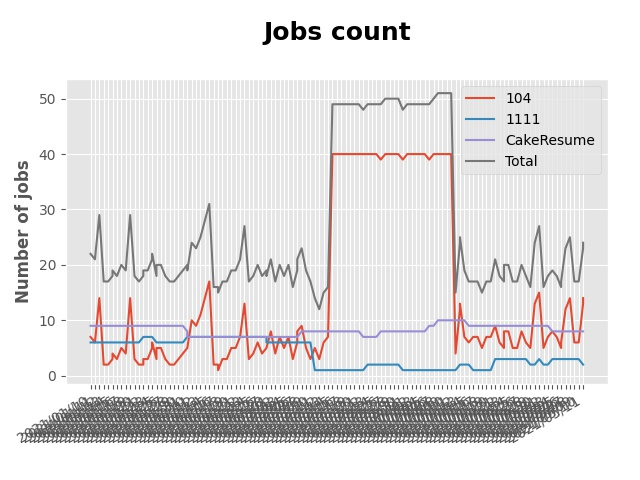
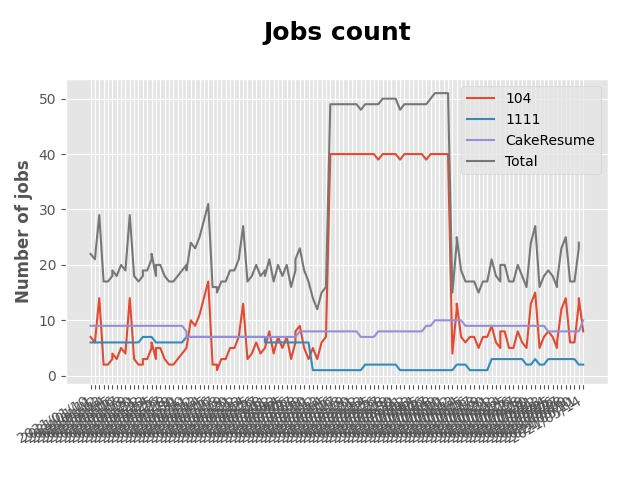
fix(cakeresume): suspend cakeresume crawler

Changed region(s): [[0.0938, 0.1562, 0.9375, 0.9375]]

diff --git a/crawlers/__init__.py b/crawlers/__init__.py
@@ -2,4 +2,4 @@ from .a104 import A104
 from .a1111 import A1111
 from .cakeresume import CakeResume
 
-JOB_BANK_LIST = [A104, A1111, CakeResume]
+JOB_BANK_LIST = [A104, A1111]

diff --git a/crawlers/base_crawler.py b/crawlers/base_crawler.py
@@ -39,6 +39,7 @@ class BaseCrawler(ABC):
 
     def fetch_data(self):
         page = 1
+        print(self.platform_name)
 
         while page < 3:
 

diff --git a/README.md b/README.md
@@ -8,22 +8,16 @@
 ### Platform - 104
 
 
-|    | company                                                                                       | job_title                                                                                        | update_time   |
-|---:|:----------------------------------------------------------------------------------------------|:-------------------------------------------------------------------------------------------------|:--------------|
-|  1 | [光禾感知科技股份有限公司](https://www.104.com.tw/company/1a2x6bks9s?jobsource=2018indexpoc)              | [Python後端工程師](https://www.104.com.tw/job/71j4l?jobsource=2018indexpoc)                           | 5/11          |
-|  2 | [小柿智檢科技股份有限公司](https://www.104.com.tw/company/1a2x6bl77l?jobsource=2018indexpoc)              | [後端工程師 Back-End Engineer](https://www.104.com.tw/job/71bmd?jobsource=2018indexpoc)               | 5/12          |
-|  3 | [小柿智檢科技股份有限公司](https://www.104.com.tw/company/1a2x6bl77l?jobsource=2018indexpoc)              | [全端工程師 Full-Stack Engineer](https://www.104.com.tw/job/71bmz?jobsource=2018indexpoc)             | 5/12          |
-|  4 | [新加坡商齊舵管理顧問有限公司台灣分公司](https://www.104.com.tw/company/1a2x6bldr7?jobsource=jolist_b_relevance) | [影像處理軟體工程師](https://www.104.com.tw/job/77vw9?jobsource=jolist_b_relevance)                       | 4/30          |
-|  5 | [日新軟體股份有限公司](https://www.104.com.tw/company/oi77qwg?jobsource=jolist_b_relevance)             | [Python 資深工程師](https://www.104.com.tw/job/6yfn5?jobsource=jolist_b_relevance)                    | 5/10          |
-|  6 | [易勝資訊股份有限公司](https://www.104.com.tw/company/1a2x6bj8og?jobsource=jolist_b_relevance)          | [Python後端工程師(IoT物聯網)](https://www.104.com.tw/job/76vbt?jobsource=jolist_b_relevance)             | 5/06          |
-|  7 | [普匯金融科技股份有限公司](https://www.104.com.tw/company/1a2x6bkhzg?jobsource=2018indexpoc)              | [Fintech金融科技 - 百萬年薪資深工程師](https://www.104.com.tw/job/72f8g?jobsource=2018indexpoc)               | 5/12          |
-|  8 | [紅門互動股份有限公司](https://www.104.com.tw/company/oh4m67k?jobsource=jolist_b_relevance)             | [Python Flask網站開發工程師(台北)](https://www.104.com.tw/job/6xtfl?jobsource=jolist_b_relevance)         | 5/06          |
-|  9 | [紅門互動股份有限公司](https://www.104.com.tw/company/oh4m67k?jobsource=jolist_b_relevance)             | [Python Flask網站研發工程師(台中)](https://www.104.com.tw/job/6kf9h?jobsource=jolist_b_relevance)         | 5/06          |
-| 10 | [艾斯移動股份有限公司](https://www.104.com.tw/company/cv8shww?jobsource=2018indexpoc)                   | [自然語言處理工程師 (NLP Engineer)](https://www.104.com.tw/job/6nmld?jobsource=2018indexpoc)              | 5/11          |
-| 11 | [英屬開曼群島商萬里雲互聯股份有限公司台灣分公司](https://www.104.com.tw/company/1a2x6bk5cu?jobsource=2018indexpoc)   | [Backend Engineer 後端工程師](https://www.104.com.tw/job/6xipk?jobsource=2018indexpoc)                | 5/11          |
-| 12 | [萊鎂醫療器材股份有限公司](https://www.104.com.tw/company/bkgh1dc?jobsource=jolist_b_relevance)           | [雲端應用工程師](https://www.104.com.tw/job/791cq?jobsource=jolist_b_relevance)                         | 5/10          |
-| 13 | [詩嫚特集團_斯曼特企業股份有限公司](https://www.104.com.tw/company/12q3kt2w?jobsource=2018indexpoc)           | [後端工程師(Backend)](https://www.104.com.tw/job/6z3ic?jobsource=2018indexpoc)                        | 5/11          |
-| 14 | [跨界創新有限公司](https://www.104.com.tw/company/1a2x6blhqh?jobsource=2018indexpoc)                  | [後端工程師 Backend-end Engineer ( Python )](https://www.104.com.tw/job/77xqk?jobsource=2018indexpoc) | 5/11          |
+|    | company                                                                                       | job_title                                                                                | update_time   |
+|---:|:----------------------------------------------------------------------------------------------|:-----------------------------------------------------------------------------------------|:--------------|
+|  1 | [展市華科技有限公司](https://www.104.com.tw/company/1a2x6blbgu?jobsource=jolist_c_relevance)           | [後端網頁工程師](https://www.104.com.tw/job/71amu?jobsource=jolist_c_relevance)                 | 5/12          |
+|  2 | [新加坡商齊舵管理顧問有限公司台灣分公司](https://www.104.com.tw/company/1a2x6bldr7?jobsource=jolist_c_relevance) | [影像處理軟體工程師](https://www.104.com.tw/job/77vw9?jobsource=jolist_c_relevance)               | 4/30          |
+|  3 | [日新軟體股份有限公司](https://www.104.com.tw/company/oi77qwg?jobsource=jolist_c_relevance)             | [Python 資深工程師](https://www.104.com.tw/job/6yfn5?jobsource=jolist_c_relevance)            | 5/10          |
+|  4 | [易勝資訊股份有限公司](https://www.104.com.tw/company/1a2x6bj8og?jobsource=2018indexpoc)                | [Python後端工程師(IoT物聯網)](https://www.104.com.tw/job/76vbt?jobsource=2018indexpoc)           | 5/13          |
+|  5 | [易勝資訊股份有限公司](https://www.104.com.tw/company/1a2x6bj8og?jobsource=jolist_c_relevance)          | [Python後端工程師(IoT物聯網)](https://www.104.com.tw/job/76vbt?jobsource=jolist_c_relevance)     | 5/13          |
+|  6 | [紅門互動股份有限公司](https://www.104.com.tw/company/oh4m67k?jobsource=jolist_c_relevance)             | [Python Flask網站開發工程師(台北)](https://www.104.com.tw/job/6xtfl?jobsource=jolist_c_relevance) | 5/13          |
+|  7 | [紅門互動股份有限公司](https://www.104.com.tw/company/oh4m67k?jobsource=jolist_c_relevance)             | [Python Flask網站研發工程師(台中)](https://www.104.com.tw/job/6kf9h?jobsource=jolist_c_relevance) | 5/13          |
+|  8 | [萊鎂醫療器材股份有限公司](https://www.104.com.tw/company/bkgh1dc?jobsource=jolist_c_relevance)           | [雲端應用工程師](https://www.104.com.tw/job/791cq?jobsource=jolist_c_relevance)                 | 5/10          |
 
 ### Platform - 1111
 
@@ -31,21 +25,7 @@
 |    | company                                              | job_title                                          | update_time   |
 |---:|:-----------------------------------------------------|:---------------------------------------------------|:--------------|
 |  1 | [億力資訊股份有限公司](https://www.1111.com.tw/corp/54937860/) | [python工程師](https://www.1111.com.tw/job/97374762/) | 2021-05-11    |
-|  2 | [長青資訊股份有限公司](https://www.1111.com.tw/corp/71694811/) | [後端工程師](https://www.1111.com.tw/job/85012186/)     | 2021-05-07    |
-
-### Platform - CakeResume
-
-
-|    | company                                                                               | job_title                                                                                                                           | update_time           |
-|---:|:--------------------------------------------------------------------------------------|:------------------------------------------------------------------------------------------------------------------------------------|:----------------------|
-|  1 | [Cathay Financial Holdings 國泰金控](https://www.cakeresume.com/companies/cathayholdings) | [軟體開發工程師 Python Software Engineer(數數發中心, DDT)](https://www.cakeresume.com/companies/cathayholdings/jobs/f5c69a)                     | Updated a month ago   |
-|  2 | [Proto 新語科技有限公司](https://www.cakeresume.com/companies/proto-cx)                       | [Backend Developer (Python)](https://www.cakeresume.com/companies/proto-cx/jobs/backend-developer-python)                           | Updated 2 months ago  |
-|  3 | [愛飛媒平股份有限公司](https://www.cakeresume.com/companies/avmapping)                          | [Python網頁後端工程師](https://www.cakeresume.com/companies/avmapping/jobs/web-backend-engineer-c24e5a)                                    | Updated 14 days ago   |
-|  4 | [玉山商業銀行股份有限公司](https://www.cakeresume.com/companies/esunbank)                         | [後端工程師 Back-end Enginee](https://www.cakeresume.com/companies/esunbank/jobs/back-end-enginee)                                       | Updated a month ago   |
-|  5 | [紅門互動股份有限公司](https://www.cakeresume.com/companies/eagleeye-5332f1)                    | [Python Flask網站開發工程師(台北)](https://www.cakeresume.com/companies/eagleeye-5332f1/jobs/python-flask-web-development-engineer-taipei)   | Updated 8 months ago  |
-|  6 | [紅門互動股份有限公司](https://www.cakeresume.com/companies/eagleeye-5332f1)                    | [Python Flask網站研發工程師(台中)](https://www.cakeresume.com/companies/eagleeye-5332f1/jobs/python-flask-website-r-amp-d-engineer-taichung) | Updated a year ago    |
-|  7 | [菜蟲農食股份有限公司](https://www.cakeresume.com/companies/tsaitung)                           | [Backend Developer (Junior & Senior)](https://www.cakeresume.com/companies/tsaitung/jobs/backend-developer-junior-senior)           | Updated 6 days ago    |
-|  8 | [訊真科技有限公司](https://www.cakeresume.com/companies/truetel)                              | [Cloud Service 軟體工程師](https://www.cakeresume.com/companies/truetel/jobs/cloud-service-software-engineer)                            | Updated 10 months ago |
+|  2 | [長青資訊股份有限公司](https://www.1111.com.tw/corp/71694811/) | [後端工程師](https://www.1111.com.tw/job/85012186/)     | 2021-05-12    |
 
 
 
